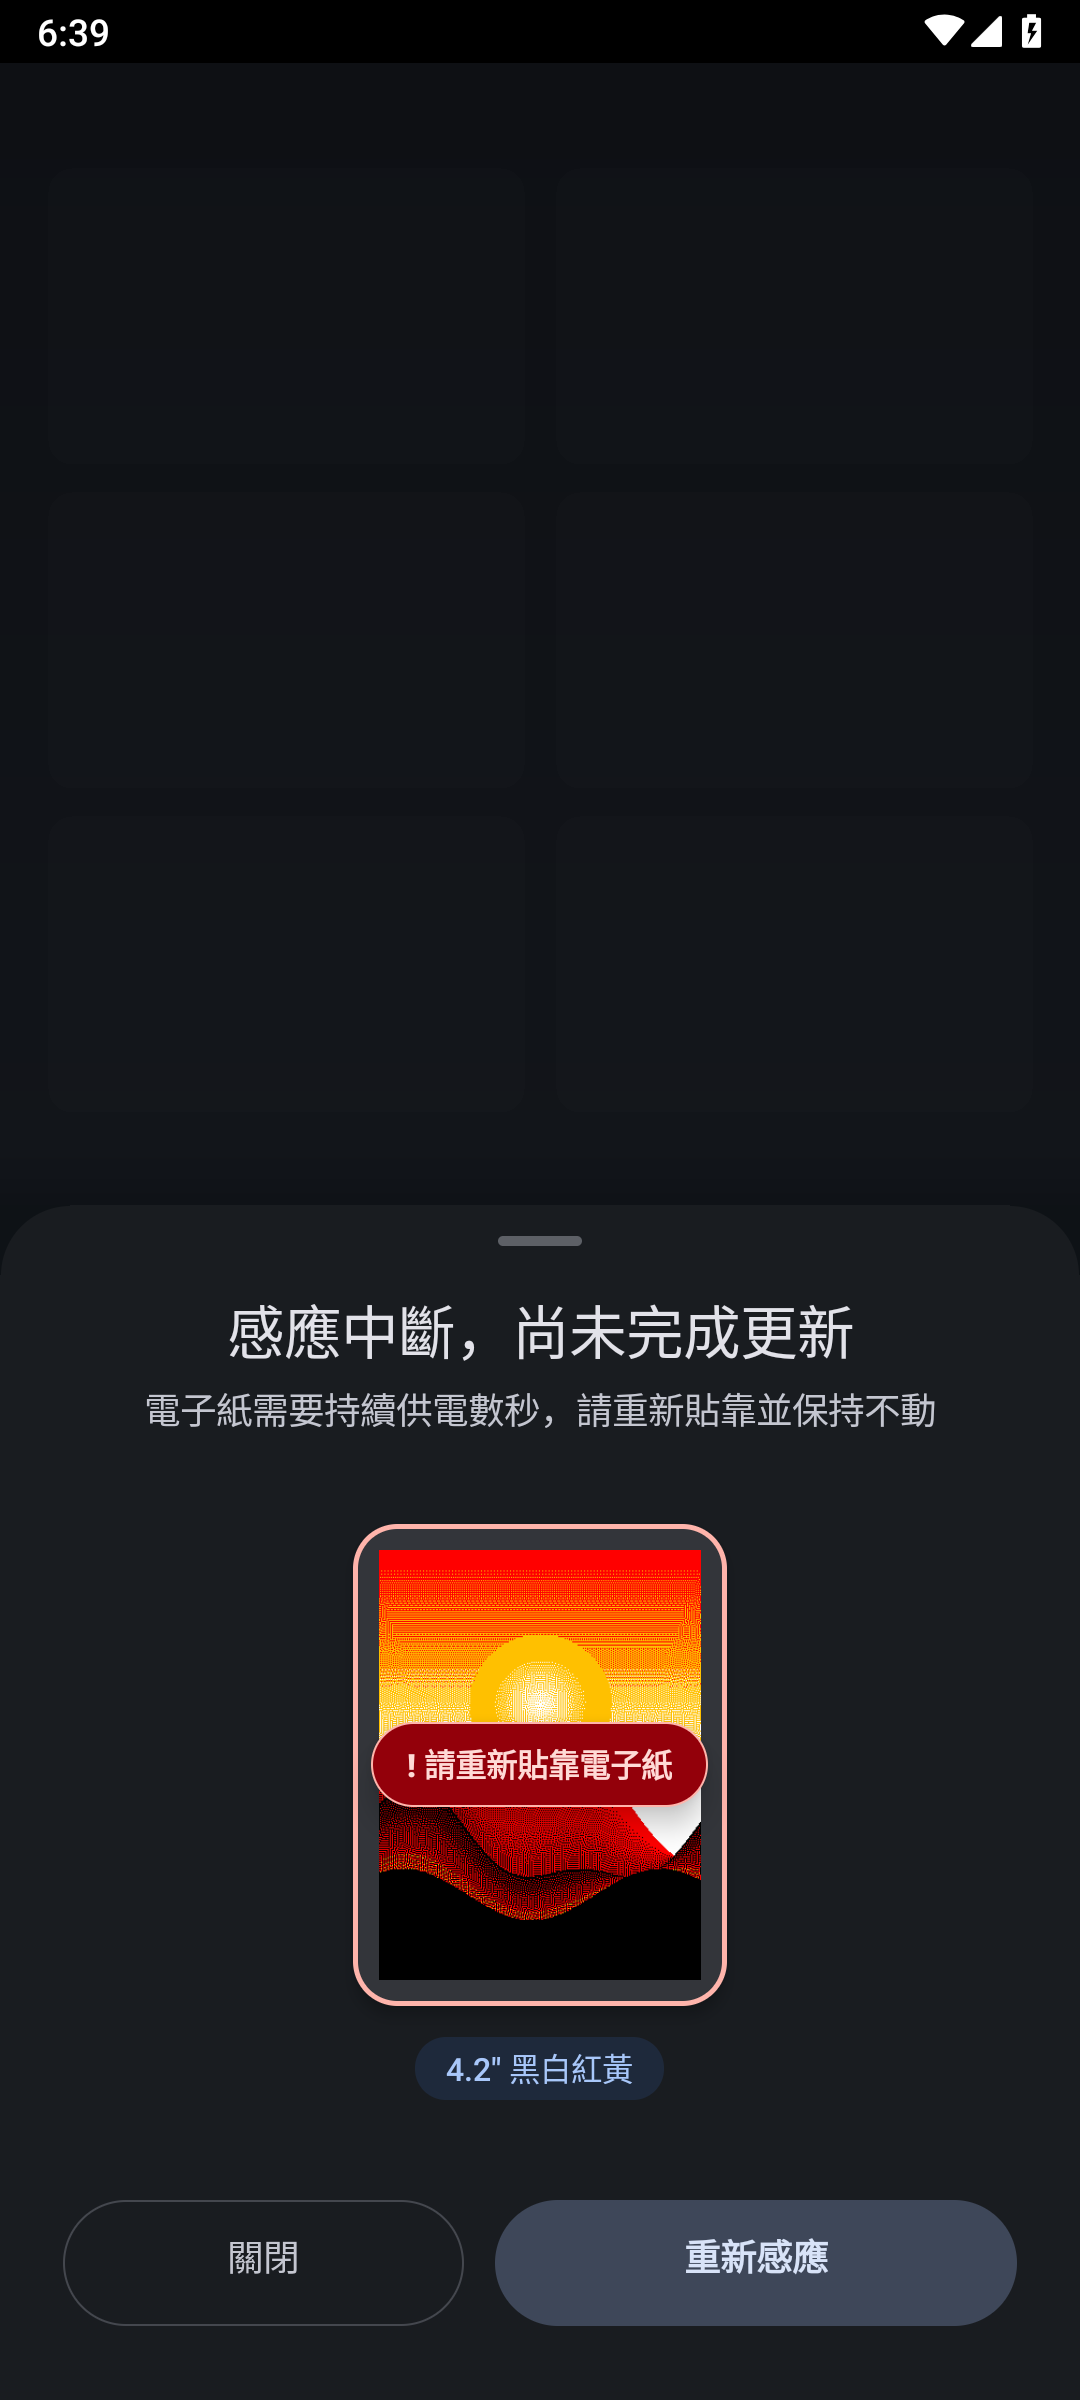
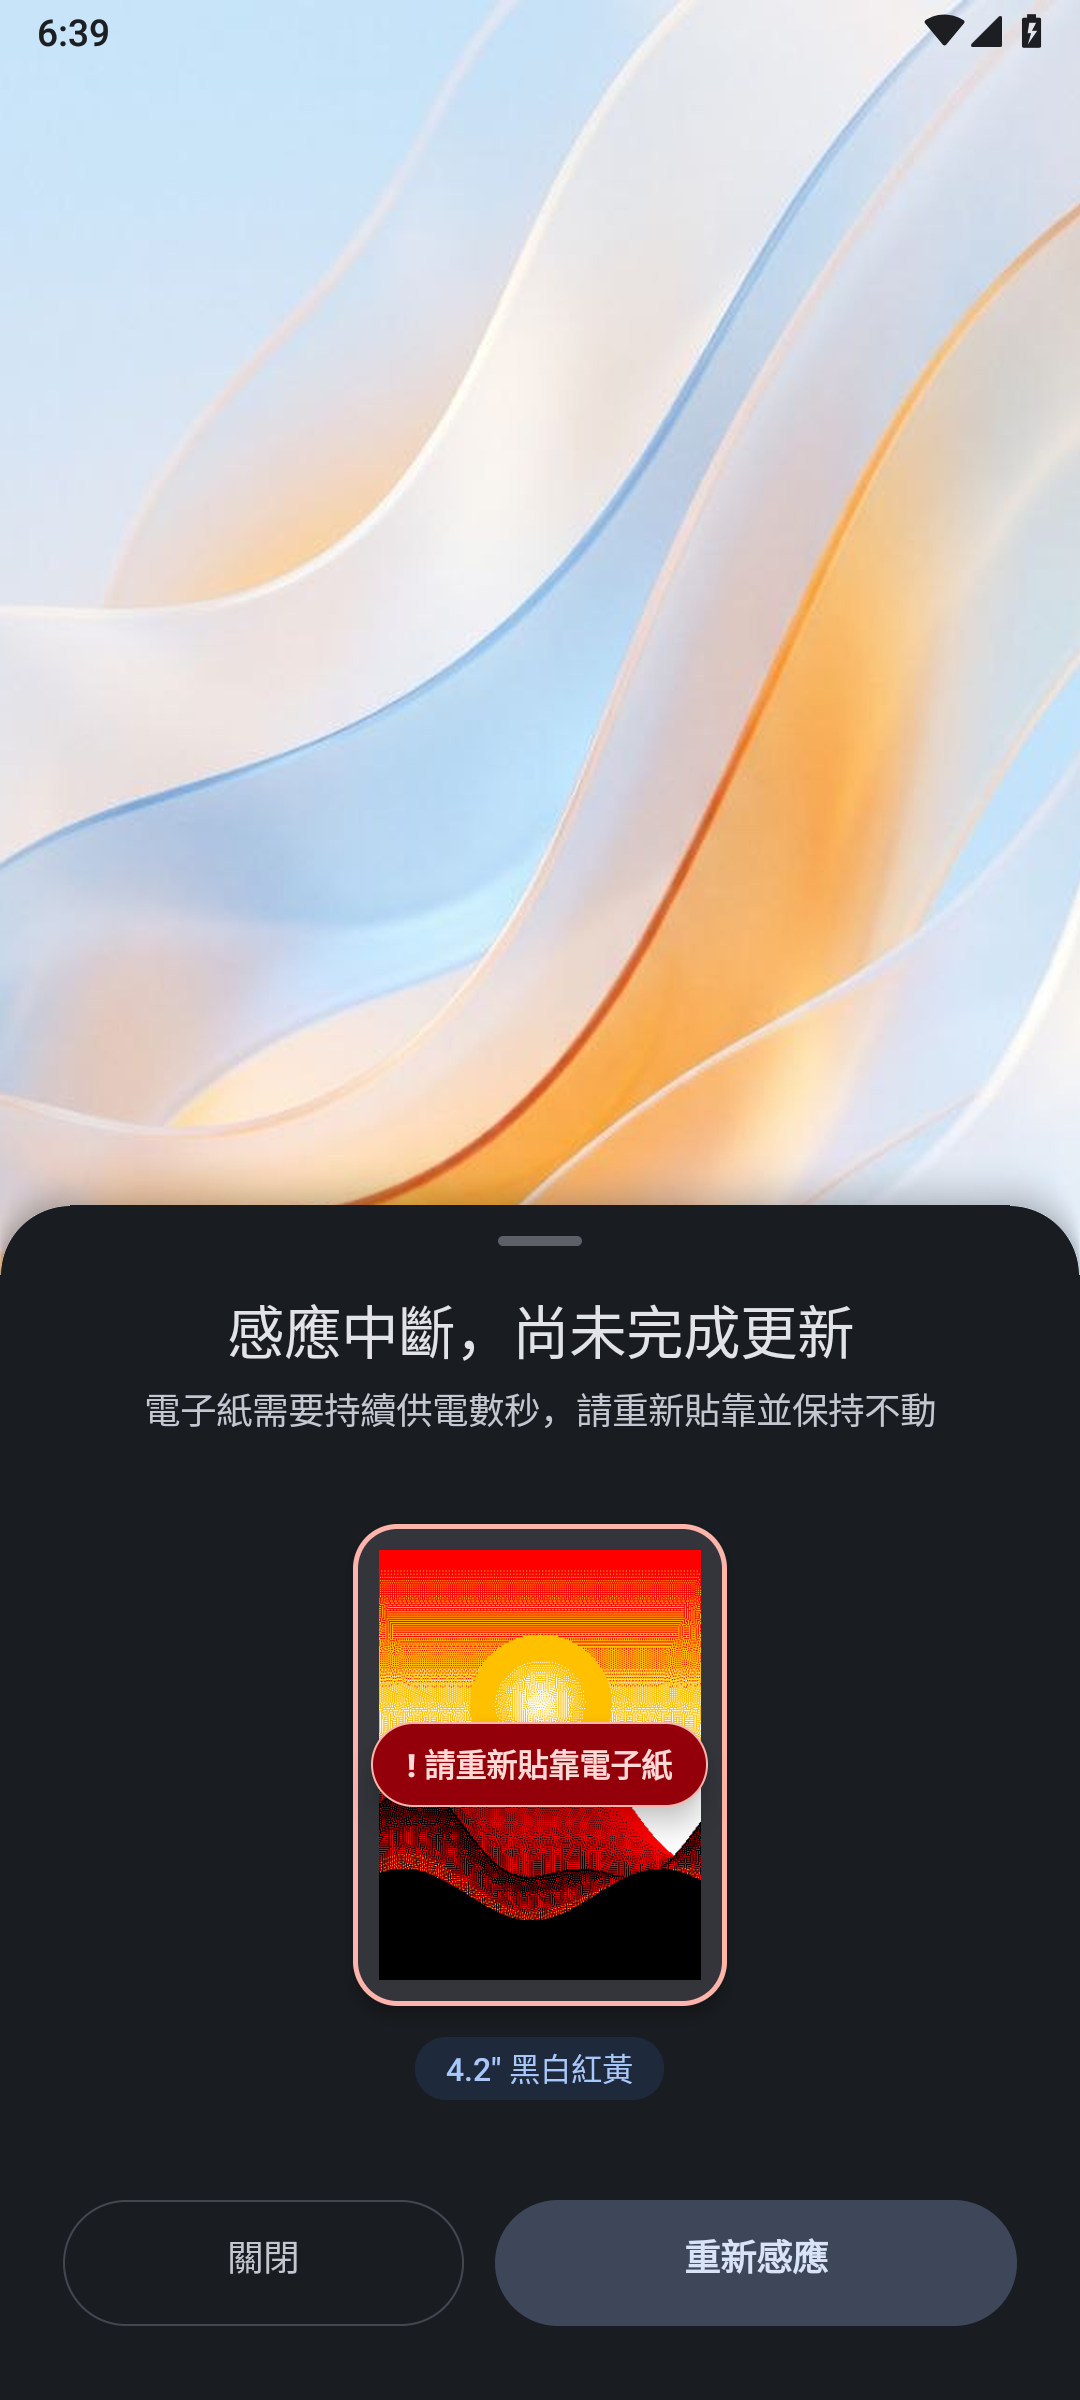
docs(screenshots): composite bright frosted-glass wallpaper backdrop with edge-to-edge status bar

diff --git a/scripts/generate-store-assets.py b/scripts/generate-store-assets.py
@@ -17,9 +17,11 @@ Visual Spec (Targeted Incremental Refinement on Approved Brand Baseline):
   - E-Paper Amber Yellow: #F2B705
 """
 
+import base64
 import math
 import os
-from PIL import Image, ImageDraw, ImageFont
+import zlib
+from PIL import Image, ImageDraw, ImageFilter, ImageFont
 
 PROJECT_DIR = os.path.dirname(os.path.dirname(os.path.abspath(__file__)))
 OUT_DIR = os.path.join(PROJECT_DIR, "docs", "play-store")
@@ -631,67 +633,74 @@ def generate_feature_and_social_graphics(icon_img):
     print(f"[OK] Generated {social_path} (1280x640)")
 
 
-def _compute_scrim_color(x, y, y_status, y_top):
-    """
-    Deterministic pure function computing the modern Android 15 System Share Modal Scrim
-    backdrop pixel at (x, y) for Y in [y_status, y_top + 70).
-    - Smooth vertical gradient from #0E1014 (14, 16, 20) at y_status=63 to #12151A (18, 21, 26) at y_top
-    - Ultra-low-contrast neutral gallery card silhouettes (diff <= 3 gray levels, zero saturation)
-    - Soft Ambient Occlusion vignette above the sheet top edge
-    """
-    span = max(1, y_top - y_status)
-    t = max(0.0, min(1.0, (y - y_status) / float(span)))
-    r = 14.0 + 4.0 * t
-    g = 16.0 + 5.0 * t
-    b = 20.0 + 6.0 * t
+_STATUS_BAR_ALPHA_B85 = (
+    "c-rmVd1w@89LDk0nntBjqNEZdqC~U}*hHk2LKS0cW30p~HXe;tN>y6hY82|7AV@{gQb>v7(RwRdv1l7f8;Y%pC^Yd_6l)D?)F>X&"
+    "B<7mVZ)SG0$LwTg-LX`^pFi}S_nm!rvNJsFyzk7c#{&QW0000000000000000000000000z>|2fYw9~=r!V+o!q8r=quTM$rMe@0"
+    "#=x^AHgm=CCdH?=Y|ET?W1`i0xwlt7XW*F;le4cz301lBHQQahe(-VuxdA*kUYc8>gmWRklfBrutSGllTT-&JvThl@Jyy$a@PPyW"
+    "d+`hJC|0VLw6_-<ielEXH>AVAT>3-0jsI%NC#Eg0&e>K}ylZJjKxM~|*Y7RfvM8A&0C1|+{A#5o*T>t74YS;6(-_)cdl&wWq-E!1"
+    "bf(CpDS6Lh<BiXZYp$JJsn^wS>da99IMS{}vEy)OJF#Jw8|_Sb>lFRJW2TV;Cb==>R`WYIt?<@vY_2?=z;OULF-o!LOFOag-{r<S"
+    "Z`Yx@(ML~|ntS>RpX;?tw1sND@>h-nz=`*4=EfvDv0;@P=kyCW>Ric<LhUUsZph6U5Yo0=nvQ11czPDf>B?2DGEGj-DyPMGMx2-C"
+    "k2nwjCyH&w#<3Ue#D-OFbk)xpT=~8+Nk%qqO)+ij{77v(q+f`#O5S{gls3q~hBi#vUAF!>#{u9(hYL1h<9dRv*s#crYJKUL8@Um8"
+    "P3`kqnt9_$c|&73w3n0@OG)OP_ZXog!ya#OAOKGEyx(GMRHxaC4U613<$qQb<=mJjUmk`B=f(CNqvZeeZK@td<pXt1xj3z#Y{g`w"
+    "Qie^JavT7Tq&Kt>8%<d@W5Xghe$p1sxsn^l)h>4h)n(KxN<(m#cpe$wH^$0V^ffB~P|Lq?7y!;pZy`4p*o_T~+*mH<iLT72q{tN_"
+    ">7H&=^75v1_g1c!_gNdX<`}7zQH`lmNHS`FRLi9t1%N|qEn{P+?bxu$4eg}hiYvJ>OYN~dbzi;oTvyabul!n;mIbbubXG=qr8Hhz"
+    "y;ConWGaS(0C4DqLsnBMv9@EwA~*W`f3JydZfsV2yj1D!`(}TwvdalYIhE*JXYkuYvzN>8>BAw~hRd3>{Bon5g8*<U{_jYpQbJ-Q"
+    "d~P(hQHy)z0*>ma=f<Cb+i*^wbB!4^$nPlt4~@o(k@~X4%ptuPcS$W@;TQlM>s{r1DkU^F!so_S@8YngsON@u<(6`JVP?j1ZE9$t"
+    "$vQ@ETpMUCZ<nP{rPRJiyX%)j0B|m&(L6V@oWw@>+&E|~b+{S*^Azpb9>sA|94g;t&WFzp<+1UIkbyE9Qnzm8u=y9Ydd5Y8NX#;g"
+    "jYW=PBYbY$DJ?xLOS@ed-?*Xn_)kZ@yvBdP)6Zu!a`SiGmd15@#rJ_5zMlgCh{R?`Qz@pgVR>I$iMo)jxRe_|807)d{p>I+CjKrX"
+    "E$Ldh?Qh=gI&)P0XBGP&h(t{2q)J(=v)HiAjaeSg%lF*K4cU~9-US)qSQ&23#Jg(iR%0Pgn-#uO5HI5+Q`!GOMB>YXr&1Cf#)f5X"
+    "boF=+xH1oW(*JT%nQJW!yQ++Vp7kxgnKLaj#?!k|QR=&~`+>-$RN0(L2^Sld_tCp{{f2~r@Ann%1>bCvker<CyNXn9gRKa9d4cz0"
+    "FaVLrXtFhx5;iuha-+c0<B>bLA&=mBV2q1u7jy-jbjV2QP4B|)&`U#8?^}$B0BG4<zYNHC9vfD<F~n2q((}IhH#Bdpq(no&NylP&"
+    "!@<T7j+}`d2zYVwDVdFlW7h+b+u8C|ibZT#<i`D0^IUsQpbVQ-WlAZl#`n}e?|t;z3`<!Tt*$UQ591fecu3=i?0Db_#2#yDD#a=`"
+    "EOKLS?;6)~V^FO;KXlE6ob}bd$9Og0N3UImUcPkH@LX-esKR^Q{KTzA$7>an+ur~<lyKd8D#bE3EOKMoNf)0>oaa9-^Nm*3d>?(k"
+    "8~$5Z<NHa6)kaMt&+Gx7l=j5l+O&vb!{WZS0#~1Bo?qvC#?W_qjo*Fr{ZIH!EsymC<;L03>~r9WjjmJbv%@tODUs#I-FkO_2Vqc&"
+    "cFIwI<b9(e;6D1<W%}JW<=-ZG{BxuF^!73Aa3C69nUNB<&HC$x+3&-)eLBCp<Vnn)F>{>XOiJK=^xY=p&Ys*i-~~NX6WQ0m(@=2R"
+    "A~wu_k3RG#s~@-Kg9Kn@*#6Q$B_Hsi00000000000000000000000000001<L;nIJ?()O"
+)
 
-    # Ultra-low-contrast neutral dark gallery grid silhouettes (simulating dimmed photo grid under system share scrim)
-    if 168 <= y <= y_top - 85:
-        col_hit = (48 <= x <= 524) or (556 <= x <= 1032)
-        row_rel = (y - 168) % 324
-        if col_hit and (0 <= row_rel < 296):
-            tx = (x - 48) if x <= 524 else (x - 556)
-            ty = row_rel
-            tw, th, tr = 476, 296, 24
-            in_tile = True
-            if tx < tr and ty < tr and math.hypot(tx - tr, ty - tr) > tr:
-                in_tile = False
-            elif tx > tw - tr and ty < tr and math.hypot(tx - (tw - tr), ty - tr) > tr:
-                in_tile = False
-            elif tx < tr and ty > th - tr and math.hypot(tx - tr, ty - (th - tr)) > tr:
-                in_tile = False
-            elif tx > tw - tr and ty > th - tr and math.hypot(tx - (tw - tr), ty - (th - tr)) > tr:
-                in_tile = False
-            if in_tile:
-                r += 2.0
-                g += 2.0
-                b += 2.0
 
-    # Soft Ambient Occlusion vignette within 60px above the sheet top edge
-    dist_above = y_top - y
-    if dist_above <= 60:
-        ao_t = max(0.0, min(1.0, (60.0 - max(0.0, float(dist_above))) / 60.0))
-        ao_drop = 3.5 * (ao_t ** 1.6)
-        r -= ao_drop
-        g -= ao_drop
-        b -= ao_drop
+def _load_wallpaper_1080():
+    wp_path = os.path.join(SCREENSHOT_DIR, "wallpaper-backdrop.jpg")
+    wp_orig = Image.open(wp_path).convert("RGB")
+    scale = max(1080.0 / wp_orig.width, 2400.0 / wp_orig.height)
+    new_w = int(round(wp_orig.width * scale))
+    new_h = int(round(wp_orig.height * scale))
+    wp_resized = wp_orig.resize((new_w, new_h), Image.Resampling.LANCZOS)
+    left = (new_w - 1080) // 2
+    top = (new_h - 2400) // 2
+    return wp_resized.crop((left, top, left + 1080, top + 2400))
 
+
+def _compute_backdrop_pixel(wp_pix, x, y, y_top):
+    wr, wg, wb = wp_pix[x, y]
+    if x < 70:
+        sheet_edge_y = (y_top + 70.0) - math.sqrt(max(0.0, 70.0 ** 2 - (x - 70.0) ** 2))
+    elif x > 1009:
+        sheet_edge_y = (y_top + 70.0) - math.sqrt(max(0.0, 70.0 ** 2 - (x - 1009.0) ** 2))
+    else:
+        sheet_edge_y = float(y_top)
+    dist = sheet_edge_y - float(y)
+    if 0.0 <= dist <= 56.0:
+        s_t = (1.0 - dist / 56.0) ** 2.2
+        shadow_mul = 1.0 - 0.18 * s_t
+        wr *= shadow_mul
+        wg *= shadow_mul
+        wb *= shadow_mul
     return (
-        int(round(max(0.0, min(255.0, r)))),
-        int(round(max(0.0, min(255.0, g)))),
-        int(round(max(0.0, min(255.0, b)))),
+        int(round(max(0.0, min(255.0, wr)))),
+        int(round(max(0.0, min(255.0, wg)))),
+        int(round(max(0.0, min(255.0, wb)))),
     )
 
 
 def refine_screenshot_backdrops():
     """
-    Adaptive Sandwich Scrim Compositing for docs/screenshots/01~04.png:
+    Adaptive Sandwich Wallpaper Compositing for docs/screenshots/01~04.png:
     1. Dynamically detects along X = 540:
-       - Top status bar bottom edge y_status = 63 (Y: 0..62 preserved 100% intact)
        - Bottom sheet top edge y_top (1205 for 01/02, 1352 for 03/04)
-    2. Replaces only the legacy emulator launcher backdrop in Y in [y_status, y_top)
-       and the outer corner regions in Y in [y_top, y_top + 70) with a deterministic
-       Android 15 System Modal Scrim Backdrop.
+    2. Composites the edge-to-edge bright frosted glass wallpaper (docs/screenshots/wallpaper-backdrop.jpg)
+       across Y in [0, y_top + 70) with dark Android 15 status bar icons in Y: 0..62 and a soft Material 3
+       elevation shadow above the bottom sheet.
     3. Strictly idempotent (running 1 or N times produces bit-identical PNGs).
     """
     screenshot_files = [
@@ -701,9 +710,16 @@ def refine_screenshot_backdrops():
         "04-transferring-420bwry.png",
     ]
 
+    wp_1080 = _load_wallpaper_1080()
+    wp_pix = wp_1080.load()
+    assert wp_pix is not None
+    status_alpha = zlib.decompress(base64.b85decode(_STATUS_BAR_ALPHA_B85))
+    col_status_dark = (28, 30, 33)
+
     r_corner = 70.0
     x_left_c = 70.0
     x_right_c = 1009.0
+    y_status = 63
 
     for fname in screenshot_files:
         fpath = os.path.join(SCREENSHOT_DIR, fname)
@@ -717,12 +733,6 @@ def refine_screenshot_backdrops():
         assert pixels is not None
 
         # 1. Dynamic boundary detection along center axis X = 540
-        y_status = 63
-        for y in range(h):
-            if pixels[540, y] != (0, 0, 0):
-                y_status = y
-                break
-
         y_top = None
         for y in range(500, h):
             if pixels[540, y] == COL_SHEET:
@@ -734,14 +744,24 @@ def refine_screenshot_backdrops():
         y_full = y_top + 70
         y_center = float(y_full)
 
-        # 2. Upper backdrop replacement: Y in [y_status, y_top)
+        # 2. Edge-to-edge status bar (Y: 0..62) with dark icons over bright wallpaper
+        for y in range(y_status):
+            row_off = y * 1080
+            for x in range(w):
+                icon_a = status_alpha[row_off + x] / 255.0
+                br, bg, bb = _compute_backdrop_pixel(wp_pix, x, y, y_top)
+                pixels[x, y] = (
+                    int(round(icon_a * col_status_dark[0] + (1.0 - icon_a) * br)),
+                    int(round(icon_a * col_status_dark[1] + (1.0 - icon_a) * bg)),
+                    int(round(icon_a * col_status_dark[2] + (1.0 - icon_a) * bb)),
+                )
+
+        # 3. Upper backdrop replacement: Y in [y_status, y_top)
         for y in range(y_status, y_top):
             for x in range(w):
-                pixels[x, y] = _compute_scrim_color(x, y, y_status, y_top)
+                pixels[x, y] = _compute_backdrop_pixel(wp_pix, x, y, y_top)
 
-        # 3. Rounded corner transition zone: Y in [y_top, y_full)
-        # Preserve interior sheet pixels (including center drag handle) 100% untouched;
-        # deterministically synthesize outer corner & AA arc pixels from COL_SHEET and C_scrim.
+        # 4. Rounded corner transition zone: Y in [y_top, y_full)
         for y in range(y_top, y_full):
             for x in range(w):
                 if x < 70:
@@ -749,15 +769,13 @@ def refine_screenshot_backdrops():
                 elif x > 1009:
                     d = math.hypot(x - x_right_c, y - y_center)
                 else:
-                    # Interior between left & right rounded corners (includes drag handle): keep 100% original
                     continue
 
                 if d <= r_corner - 1.0:
-                    # Strictly inside the rounded corner body: keep 100% original
                     continue
 
                 alpha = max(0.0, min(1.0, r_corner - d))
-                c_scrim = _compute_scrim_color(x, y, y_status, y_top)
+                c_scrim = _compute_backdrop_pixel(wp_pix, x, y, y_top)
                 out_r = int(round(alpha * COL_SHEET[0] + (1.0 - alpha) * c_scrim[0]))
                 out_g = int(round(alpha * COL_SHEET[1] + (1.0 - alpha) * c_scrim[1]))
                 out_b = int(round(alpha * COL_SHEET[2] + (1.0 - alpha) * c_scrim[2]))

diff --git a/tests/emulator-e2e.test.py b/tests/emulator-e2e.test.py
@@ -351,7 +351,7 @@ def verify_targeted_refinement_contracts():
                 seen_colors.add(c)
         assert len(seen_colors) == 4, f"{bname} dithered artwork must utilize all 4 brand E-Paper colors, got {seen_colors}"
 
-    # Verify Screenshots 01~04 dimensions, top status bar, bottom sheet preservation, and zero magenta in scrim/corner zone
+    # Verify Screenshots 01~04 dimensions, bright edge-to-edge wallpaper contrast, and bottom sheet preservation
     for sname, exp_y_top in [
         ("01-waiting-nfc.png", 1205),
         ("02-error-retry.png", 1205),
@@ -361,15 +361,11 @@ def verify_targeted_refinement_contracts():
         spath = os.path.join(SCREENSHOT_DIR, sname)
         simg = Image.open(spath).convert("RGB")
         assert simg.size == (1080, 2400), f"{sname} invalid size {simg.size}"
-        assert simg.getpixel((540, 0)) == (0, 0, 0) and simg.getpixel((540, 62)) == (0, 0, 0), f"{sname} status bar not preserved"
-        assert simg.getpixel((540, exp_y_top)) == (25, 28, 32), f"{sname} expected sheet top at Y={exp_y_top}, got {simg.getpixel((540, exp_y_top))}"
-        raw_rgb = simg.crop((0, 0, 1080, exp_y_top + 70)).tobytes()
-        mag_scrim = sum(
-            1
-            for idx in range(0, len(raw_rgb), 3)
-            if (raw_rgb[idx] - raw_rgb[idx + 1] > 25 and raw_rgb[idx + 2] > 90)
-        )
-        assert mag_scrim == 0, f"I4 VIOLATION: {sname} has {mag_scrim} legacy magenta pixels in scrim/corner region!"
+        spix = simg.load()
+        assert spix is not None
+        p_top = spix[540, 100]
+        assert isinstance(p_top, tuple) and (p_top[0] + p_top[1] + p_top[2]) > 550, f"{sname} upper wallpaper must be bright high-key contrast"
+        assert spix[540, exp_y_top] == (25, 28, 32), f"{sname} expected sheet top at Y={exp_y_top}, got {spix[540, exp_y_top]}"
 
     print(" -> [PASS] All Targeted Incremental Refinement (I1~I4), Multi-Locale README, Obtainium & Pixel Idempotency Contracts Verified!")
 
